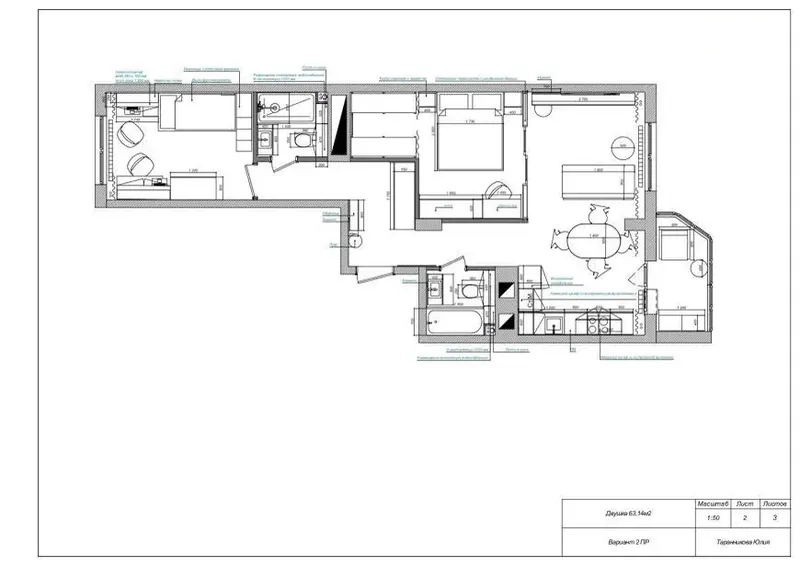
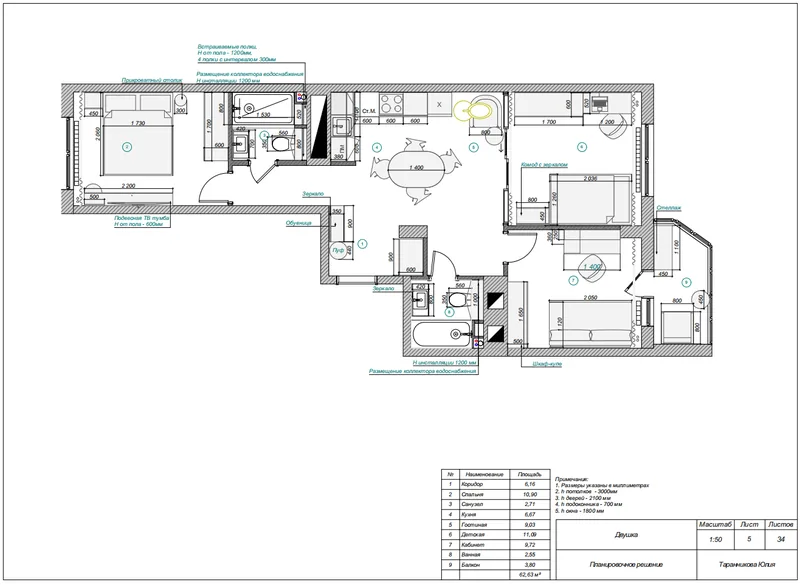
feat: правки владельца круг 8 — план 2-го этапа без водяного знака, кнопки контактов
- Этап 2: новый план из Яндекс.Диска («этап 2.png», 1316x963), надпись
  «Учебная версия Archicad» убрана заливкой фона; сохранены webp 1316 и 800
- Контакты: кнопка Telegram подписана «Написать в Telegram» вместо @JuliayTara
- MAX: фирменный логотип из присланного изображения (max-logo.webp 96/48,
  retina srcset) вместо линейной иконки-пузыря

Changed region(s): [[0.0625, 0.0601, 0.9062, 0.6608], [0.0, 0.7809, 1.0, 1.0], [0.0, 0.0, 1.0, 0.03]]

diff --git a/src/etapy.html b/src/etapy.html
@@ -10,7 +10,7 @@
   <link rel="preconnect" href="https://fonts.gstatic.com" crossorigin>
   <link rel="stylesheet" href="https://fonts.googleapis.com/css2?family=Manrope:wght@400;500;600;700&family=Playfair+Display:ital,wght@0,400;0,500;0,600;1,400&display=swap">
   <link rel="stylesheet" href="css/styles.css?v=bf9042cc">
-  <link rel="stylesheet" href="css/carousel.css?v=de13f1dc">
+  <link rel="stylesheet" href="css/carousel.css?v=be33c965">
   <script src="js/main.js?v=6dda1926" defer></script>
   <title>Этапы дизайн-проекта — Юлия Таранникова</title>
   <meta name="description" content="Семь этапов дизайн-проекта: обмер и консультация, планировочное решение, коллажи, визуализации, рабочая документация, комплектация, авторское сопровождение.">
@@ -108,14 +108,14 @@
               <p class="stage__result">Результат — 2-3 варианта планировки</p>
             </div>
             <figure class="media media--4x3 stage__media">
-              <img src="assets/img/stage-2.webp?v=93161657"
-             srcset="assets/img/stage-2-800.webp?v=74bc7f2d 800w, assets/img/stage-2.webp?v=93161657 870w"
+              <img src="assets/img/stage-2.webp?v=778d9f66"
+             srcset="assets/img/stage-2-800.webp?v=984ac616 800w, assets/img/stage-2.webp?v=778d9f66 1316w"
              sizes="(min-width: 1024px) 46vw, 100vw"
-             width="870" height="616"
+             width="1316" height="963"
              alt="Планировочное решение с расстановкой мебели и сантехники"
              loading="lazy" decoding="async">
               <button class="media__zoom" type="button"
-                      data-lightbox="assets/img/stage-2.webp?v=93161657"
+                      data-lightbox="assets/img/stage-2.webp?v=778d9f66"
                       data-lightbox-alt="Планировочное решение с расстановкой мебели и сантехники"
                       data-lightbox-caption="Планировочное решение с расстановкой мебели — Планировочное решение с расстановкой мебели и сантехники">
                 <span class="visually-hidden">Открыть изображение этапа на весь экран</span>

diff --git a/src/contacts.html b/src/contacts.html
@@ -10,7 +10,7 @@
   <link rel="preconnect" href="https://fonts.gstatic.com" crossorigin>
   <link rel="stylesheet" href="https://fonts.googleapis.com/css2?family=Manrope:wght@400;500;600;700&family=Playfair+Display:ital,wght@0,400;0,500;0,600;1,400&display=swap">
   <link rel="stylesheet" href="css/styles.css?v=bf9042cc">
-  <link rel="stylesheet" href="css/carousel.css?v=de13f1dc">
+  <link rel="stylesheet" href="css/carousel.css?v=be33c965">
   <script src="js/main.js?v=6dda1926" defer></script>
   <title>Контакты — Юлия Таранникова, дизайн интерьера</title>
   <meta name="description" content="Свяжитесь со мной: Telegram @JuliayTara, канал @homest_jul, канал в Max jt_design, ВКонтакте. Подберу оптимальный пакет услуг под ваш проект. г. Москва.">
@@ -68,10 +68,12 @@
           <p class="contact-cta">
             <a class="btn btn--tg btn--lg" href="https://t.me/JuliayTara" rel="noopener">
               <svg class="btn__icon" viewBox="0 0 24 24" fill="currentColor" aria-hidden="true" focusable="false"><path d="M21.5 4.3 18.6 19c-.2 1-.8 1.2-1.6.8l-4.4-3.3-2.1 2c-.2.2-.4.4-.9.4l.3-4.4 8.1-7.3c.3-.3 0-.5-.5-.2l-10 6.3-4.3-1.4c-.9-.3-.9-.9.2-1.3l16.8-6.5c.8-.3 1.5.2 1.3 1Z"/></svg>
-              @JuliayTara
+              Написать в Telegram
             </a>
             <a class="btn btn--max btn--lg" href="https://max.ru/u/f9LHodD0cOKfhZ-4CxuLJGO10TM4eyoZXmt1RTWYaGpOwDhdNoSZGGR1Uvk" rel="noopener">
-              <svg class="btn__icon" viewBox="0 0 24 24" fill="none" stroke="currentColor" stroke-width="2" stroke-linecap="round" stroke-linejoin="round" aria-hidden="true" focusable="false"><path d="M21 11.5a8.4 8.4 0 0 1-9 8.4 9.5 9.5 0 0 1-2.6-.4L4 21l1.4-4.1A8.3 8.3 0 0 1 4 11.5 8.4 8.4 0 0 1 12.5 3 8.4 8.4 0 0 1 21 11.5z"/><path d="M8 10.5l2.6 4 2-2.6 2 2.6L17 10.5"/></svg>
+              <img class="btn__logo" src="assets/img/max-logo.webp?v=e052d350"
+                   srcset="assets/img/max-logo-48.webp?v=4b880806 48w, assets/img/max-logo.webp?v=e052d350 96w"
+                   sizes="24px" width="96" height="96" alt="" loading="lazy" decoding="async">
               Написать в MAX
             </a>
           </p>

diff --git a/src/services.html b/src/services.html
@@ -10,7 +10,7 @@
   <link rel="preconnect" href="https://fonts.gstatic.com" crossorigin>
   <link rel="stylesheet" href="https://fonts.googleapis.com/css2?family=Manrope:wght@400;500;600;700&family=Playfair+Display:ital,wght@0,400;0,500;0,600;1,400&display=swap">
   <link rel="stylesheet" href="css/styles.css?v=bf9042cc">
-  <link rel="stylesheet" href="css/carousel.css?v=de13f1dc">
+  <link rel="stylesheet" href="css/carousel.css?v=be33c965">
   <script src="js/main.js?v=6dda1926" defer></script>
   <title>Услуги и тарифы — Юлия Таранникова</title>
   <meta name="description" content="Услуги дизайнера интерьера: планировка, визуализация, полный дизайн-проект, подготовка квартиры к аренде или продаже. Тарифы: 800 ₽/м², 1 500 ₽/м², 3 000 ₽/м², авторское сопровождение 5 000 ₽ за выезд.">

diff --git a/src/project-remont-2k.html b/src/project-remont-2k.html
@@ -10,7 +10,7 @@
   <link rel="preconnect" href="https://fonts.gstatic.com" crossorigin>
   <link rel="stylesheet" href="https://fonts.googleapis.com/css2?family=Manrope:wght@400;500;600;700&family=Playfair+Display:ital,wght@0,400;0,500;0,600;1,400&display=swap">
   <link rel="stylesheet" href="css/styles.css?v=bf9042cc">
-  <link rel="stylesheet" href="css/carousel.css?v=de13f1dc">
+  <link rel="stylesheet" href="css/carousel.css?v=be33c965">
   <script src="js/main.js?v=6dda1926" defer></script>
   <title>2-комнатная 66 м²: капитальный ремонт и комплектация — проект Юлии Таранниковой</title>
   <meta name="description" content="Капитальный ремонт 2-комнатной квартиры 66 м² под сдачу в аренду: демонтаж, черновые и чистовые работы, инженерные решения и комплектация под ключ.">

diff --git a/src/index.html b/src/index.html
@@ -10,7 +10,7 @@
   <link rel="preconnect" href="https://fonts.gstatic.com" crossorigin>
   <link rel="stylesheet" href="https://fonts.googleapis.com/css2?family=Manrope:wght@400;500;600;700&family=Playfair+Display:ital,wght@0,400;0,500;0,600;1,400&display=swap">
   <link rel="stylesheet" href="css/styles.css?v=bf9042cc">
-  <link rel="stylesheet" href="css/carousel.css?v=de13f1dc">
+  <link rel="stylesheet" href="css/carousel.css?v=be33c965">
   <script src="js/main.js?v=6dda1926" defer></script>
   <title>Юлия Таранникова — дизайн интерьера, планировка и комплектация</title>
   <meta name="description" content="Дизайнер интерьера Юлия Таранникова: планировка с законной перепланировкой, комплектация под сдачу в аренду или для жизни. Москва и онлайн по России.">

diff --git a/src/portfolio.html b/src/portfolio.html
@@ -10,7 +10,7 @@
   <link rel="preconnect" href="https://fonts.gstatic.com" crossorigin>
   <link rel="stylesheet" href="https://fonts.googleapis.com/css2?family=Manrope:wght@400;500;600;700&family=Playfair+Display:ital,wght@0,400;0,500;0,600;1,400&display=swap">
   <link rel="stylesheet" href="css/styles.css?v=bf9042cc">
-  <link rel="stylesheet" href="css/carousel.css?v=de13f1dc">
+  <link rel="stylesheet" href="css/carousel.css?v=be33c965">
   <script src="js/main.js?v=6dda1926" defer></script>
   <title>Проекты — Юлия Таранникова, дизайн интерьера</title>
   <meta name="description" content="Реализованные проекты: студии, евро 2 и евро 3, 2-комнатные квартиры с перепланировкой и ремонт под ключ. Фото с реальных объектов.">

diff --git a/src/blog.html b/src/blog.html
@@ -10,7 +10,7 @@
   <link rel="preconnect" href="https://fonts.gstatic.com" crossorigin>
   <link rel="stylesheet" href="https://fonts.googleapis.com/css2?family=Manrope:wght@400;500;600;700&family=Playfair+Display:ital,wght@0,400;0,500;0,600;1,400&display=swap">
   <link rel="stylesheet" href="css/styles.css?v=bf9042cc">
-  <link rel="stylesheet" href="css/carousel.css?v=de13f1dc">
+  <link rel="stylesheet" href="css/carousel.css?v=be33c965">
   <script src="js/main.js?v=6dda1926" defer></script>
   <title>Советы — Юлия Таранникова, дизайн интерьера</title>
   <meta name="description" content="Как сторона света меняет интерьер, как выбрать цветовую концепцию и цветовые решения для спальни, планировки для аренды.">

diff --git a/src/project-euro3-green-park.html b/src/project-euro3-green-park.html
@@ -10,7 +10,7 @@
   <link rel="preconnect" href="https://fonts.gstatic.com" crossorigin>
   <link rel="stylesheet" href="https://fonts.googleapis.com/css2?family=Manrope:wght@400;500;600;700&family=Playfair+Display:ital,wght@0,400;0,500;0,600;1,400&display=swap">
   <link rel="stylesheet" href="css/styles.css?v=bf9042cc">
-  <link rel="stylesheet" href="css/carousel.css?v=de13f1dc">
+  <link rel="stylesheet" href="css/carousel.css?v=be33c965">
   <script src="js/main.js?v=6dda1926" defer></script>
   <title>Евро 3 ЖК Green Park — проект Юлии Таранниковой</title>
   <meta name="description" content="Евро 3, 56,7 м² в ЖК Green Park — квартира для аренды в нейтральных светлых тонах с тёплыми оттенками терракоты и зелени.">

diff --git a/src/article-svet-i-storona-sveta.html b/src/article-svet-i-storona-sveta.html
@@ -10,7 +10,7 @@
   <link rel="preconnect" href="https://fonts.gstatic.com" crossorigin>
   <link rel="stylesheet" href="https://fonts.googleapis.com/css2?family=Manrope:wght@400;500;600;700&family=Playfair+Display:ital,wght@0,400;0,500;0,600;1,400&display=swap">
   <link rel="stylesheet" href="css/styles.css?v=bf9042cc">
-  <link rel="stylesheet" href="css/carousel.css?v=de13f1dc">
+  <link rel="stylesheet" href="css/carousel.css?v=be33c965">
   <script src="js/main.js?v=6dda1926" defer></script>
   <title>Свет и сторона света: как окна меняют интерьер — Юлия Таранникова</title>
   <meta name="description" content="Освещение и цветовая палитра — два ключевых элемента, которые формируют атмосферу.">

diff --git a/src/article-kak-vybrat-cvet.html b/src/article-kak-vybrat-cvet.html
@@ -10,7 +10,7 @@
   <link rel="preconnect" href="https://fonts.gstatic.com" crossorigin>
   <link rel="stylesheet" href="https://fonts.googleapis.com/css2?family=Manrope:wght@400;500;600;700&family=Playfair+Display:ital,wght@0,400;0,500;0,600;1,400&display=swap">
   <link rel="stylesheet" href="css/styles.css?v=bf9042cc">
-  <link rel="stylesheet" href="css/carousel.css?v=de13f1dc">
+  <link rel="stylesheet" href="css/carousel.css?v=be33c965">
   <script src="js/main.js?v=6dda1926" defer></script>
   <title>Как не ошибиться с выбором цветовой концепции — Юлия Таранникова</title>
   <meta name="description" content="Самый универсальный выбор для комнаты — нейтральные цвета в качестве основных.">

diff --git a/src/article-spalni-cvetovye-resheniya.html b/src/article-spalni-cvetovye-resheniya.html
@@ -10,7 +10,7 @@
   <link rel="preconnect" href="https://fonts.gstatic.com" crossorigin>
   <link rel="stylesheet" href="https://fonts.googleapis.com/css2?family=Manrope:wght@400;500;600;700&family=Playfair+Display:ital,wght@0,400;0,500;0,600;1,400&display=swap">
   <link rel="stylesheet" href="css/styles.css?v=bf9042cc">
-  <link rel="stylesheet" href="css/carousel.css?v=de13f1dc">
+  <link rel="stylesheet" href="css/carousel.css?v=be33c965">
   <script src="js/main.js?v=6dda1926" defer></script>
   <title>Спальни: пять цветовых решений — Юлия Таранникова</title>
   <meta name="description" content="Терракота, глубокий синий, мокко, мята и флористические обои — пять спален из моих проектов.">

diff --git a/src/project-two-room-63.html b/src/project-two-room-63.html
@@ -10,7 +10,7 @@
   <link rel="preconnect" href="https://fonts.gstatic.com" crossorigin>
   <link rel="stylesheet" href="https://fonts.googleapis.com/css2?family=Manrope:wght@400;500;600;700&family=Playfair+Display:ital,wght@0,400;0,500;0,600;1,400&display=swap">
   <link rel="stylesheet" href="css/styles.css?v=bf9042cc">
-  <link rel="stylesheet" href="css/carousel.css?v=de13f1dc">
+  <link rel="stylesheet" href="css/carousel.css?v=be33c965">
   <script src="js/main.js?v=6dda1926" defer></script>
   <title>2-комнатная 63 м²: перепланировка в 3К — проект Юлии Таранниковой</title>
   <meta name="description" content="Из двушки — трёшка для семьи с двумя детьми: визуализации на каждый вариант.">
